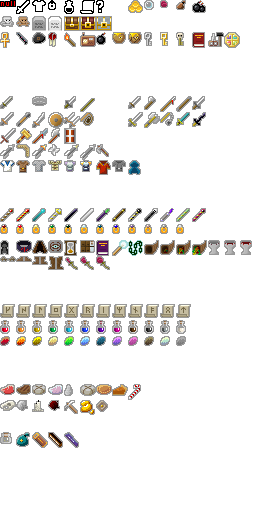
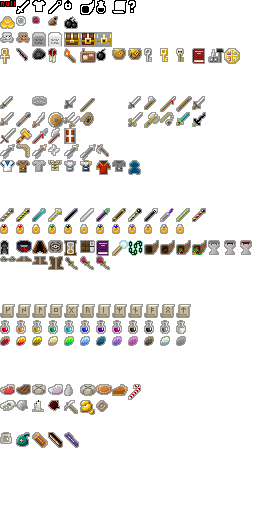
v0.6.1: major adjustments to layout of journal window
New catalogs tabs don't work yet.

diff --git a/core/src/main/java/com/shatteredpixel/shatteredpixeldungeon/windows/WndJournal.java b/core/src/main/java/com/shatteredpixel/shatteredpixeldungeon/windows/WndJournal.java
@@ -53,28 +53,34 @@ import java.util.Collections;
 //FIXME a lot of cleanup and improvements to do here
 public class WndJournal extends WndTabbed {
 	
-	private static final int WIDTH    = 112;
-	private static final int HEIGHT   = 130;
+	private static final int WIDTH_P    = 112;
+	private static final int HEIGHT_P   = 160;
+	
+	private static final int WIDTH_L    = 160;
+	private static final int HEIGHT_L   = 128;
 	
 	private static final int ITEM_HEIGHT	= 18;
 	
 	private Notes notes;
 	private Catalog catalog;
 	
-	private static int last_index = 0;
+	public static int last_index = 0;
 	
 	public WndJournal(){
 		
-		resize(WIDTH, HEIGHT);
+		int width = ShatteredPixelDungeon.landscape() ? WIDTH_L : WIDTH_P;
+		int height = ShatteredPixelDungeon.landscape() ? HEIGHT_L : HEIGHT_P;
+		
+		resize(width, height);
 		
 		notes = new Notes();
 		add(notes);
-		notes.setRect(0, 0, WIDTH, HEIGHT);
+		notes.setRect(0, 0, width, height);
 		notes.updateList();
 		
 		catalog = new Catalog();
 		add(catalog);
-		catalog.setRect(0, 0, WIDTH, HEIGHT);
+		catalog.setRect(0, 0, width, height);
 		catalog.updateList();
 		
 		Tab[] tabs = {
@@ -209,7 +215,7 @@ public class WndJournal extends WndTabbed {
 						text += " x" + Dungeon.hero.belongings.specialKeys[i];
 					}
 					ListItem item = new ListItem( Icons.get(Icons.DEPTH), Messages.titleCase(text), i );
-					item.setRect( 0, pos, WIDTH, ITEM_HEIGHT );
+					item.setRect( 0, pos, width(), ITEM_HEIGHT );
 					content.add( item );
 					
 					pos += item.height();
@@ -222,7 +228,7 @@ public class WndJournal extends WndTabbed {
 					}
 					
 					ListItem item = new ListItem( Icons.get(Icons.DEPTH), text, i );
-					item.setRect( 0, pos, WIDTH, ITEM_HEIGHT );
+					item.setRect( 0, pos, width(), ITEM_HEIGHT );
 					content.add( item );
 					
 					pos += item.height();
@@ -233,22 +239,21 @@ public class WndJournal extends WndTabbed {
 			//Journal entries
 			for (Journal.Record rec : Journal.records) {
 				ListItem item = new ListItem( Icons.get(Icons.DEPTH), rec.feature.desc(), rec.depth );
-				item.setRect( 0, pos, WIDTH, ITEM_HEIGHT );
+				item.setRect( 0, pos, width(), ITEM_HEIGHT );
 				content.add( item );
 				
 				pos += item.height();
 			}
 			
-			content.setSize( WIDTH, pos );
+			content.setSize( width(), pos );
 		}
 		
 	}
 	
 	private static class Catalog extends Component{
 		
-		private RedButton btnPotions;
-		private RedButton btnScrolls;
-		private RedButton btnRings;
+		private RedButton[] itemButtons;
+		private static final int NUM_BUTTONS = 7;
 		
 		private static int latestPressedIdx = 0;
 		
@@ -256,41 +261,23 @@ public class WndJournal extends WndTabbed {
 		
 		private ArrayList<CatalogItem> items = new ArrayList<>();
 		
-		private static boolean showPotions = true;
-		
 		public Catalog(){
 			
 			super();
 			
-			btnPotions = new RedButton( "" ){
-				@Override
-				protected void onClick() {
-					latestPressedIdx = 0;
-					updateList();
-				}
-			};
-			btnPotions.icon(new ItemSprite(ItemSpriteSheet.POTION_HOLDER, null));
-			add( btnPotions );
-			
-			btnScrolls = new RedButton( "" ){
-				@Override
-				protected void onClick() {
-					latestPressedIdx = 1;
-					updateList();
-				}
-			};
-			btnScrolls.icon(new ItemSprite(ItemSpriteSheet.SCROLL_HOLDER, null));
-			add( btnScrolls );
-			
-			btnRings = new RedButton( "" ){
-				@Override
-				protected void onClick() {
-					latestPressedIdx = 2;
-					updateList();
-				}
-			};
-			btnRings.icon(new ItemSprite(ItemSpriteSheet.RING_HOLDER, null));
-			add( btnRings );
+			itemButtons = new RedButton[NUM_BUTTONS];
+			for (int i = 0; i < NUM_BUTTONS; i++){
+				final int idx = i;
+				itemButtons[i] = new RedButton( "" ){
+					@Override
+					protected void onClick() {
+						latestPressedIdx = idx;
+						updateList();
+					}
+				};
+				itemButtons[i].icon(new ItemSprite(ItemSpriteSheet.WEAPON_HOLDER + i, null));
+				add( itemButtons[i] );
+			}
 			
 			list = new ScrollPane( new Component() ) {
 				@Override
@@ -306,40 +293,48 @@ public class WndJournal extends WndTabbed {
 			add( list );
 		}
 		
-		private static final int BUTTON_WIDTH = 36;
-		private static final int BUTTON_HEIGHT = 18;
+		private static final int BUTTON_HEIGHT = 17;
 		
 		@Override
 		protected void layout() {
 			super.layout();
 			
-			btnPotions.setRect(0, 0, BUTTON_WIDTH, BUTTON_HEIGHT);
-			PixelScene.align( btnPotions );
+			int perRow = ShatteredPixelDungeon.landscape() ? NUM_BUTTONS : 4;
+			float buttonWidth = (width() - (perRow-1))/perRow;
 			
-			btnScrolls.setRect((width() - BUTTON_WIDTH)/2f, 0, BUTTON_WIDTH, BUTTON_HEIGHT);
-			PixelScene.align(btnScrolls);
+			for (int i = 0; i < NUM_BUTTONS; i++) {
+				itemButtons[i].setRect((i%perRow) * (buttonWidth + 1), (i/perRow) * (BUTTON_HEIGHT + 1),
+						buttonWidth, BUTTON_HEIGHT);
+				PixelScene.align(itemButtons[i]);
+			}
 			
-			btnRings.setRect(width() - BUTTON_WIDTH, 0, BUTTON_WIDTH, BUTTON_HEIGHT);
-			PixelScene.align(btnRings);
-			
-			list.setRect( 0, btnPotions.height() + 1, width, height - btnPotions.height() - 1 );
+			list.setRect(0, itemButtons[NUM_BUTTONS-1].bottom() + 1, width,
+					height - itemButtons[NUM_BUTTONS-1].bottom() - 1);
 		}
 		
 		private void updateList() {
 			
 			items.clear();
 			
+			for (int i = 0; i < NUM_BUTTONS; i++){
+				if (i == latestPressedIdx){
+					itemButtons[i].icon().color(TITLE_COLOR);
+				} else {
+					itemButtons[i].icon().resetColor();
+				}
+			}
+			
 			Component content = list.content();
 			content.clear();
 			list.scrollTo( 0, 0 );
 			
 			ArrayList<Class<?>> itemClasses;
-			if (latestPressedIdx == 0){
+			if (latestPressedIdx == 5){
 				itemClasses = new ArrayList<>(Arrays.asList(Generator.Category.POTION.classes));
 				for ( Class unknown : Potion.getUnknown()){
 					if (itemClasses.remove(unknown)) itemClasses.add(unknown);
 				}
-			} else if (latestPressedIdx == 1) {
+			} else if (latestPressedIdx == 6) {
 				itemClasses = new ArrayList<>(Arrays.asList(Generator.Category.SCROLL.classes));
 				for ( Class unknown : Scroll.getUnknown()){
 					if (itemClasses.remove(unknown)) itemClasses.add(unknown);

diff --git a/core/src/main/java/com/shatteredpixel/shatteredpixeldungeon/sprites/ItemSpriteSheet.java b/core/src/main/java/com/shatteredpixel/shatteredpixeldungeon/sprites/ItemSpriteSheet.java
@@ -35,26 +35,30 @@ public class ItemSpriteSheet {
 		return x + WIDTH*y;
 	}
 
-	private static final int PLACEHOLDERS   =                               xy(1, 1);   //8 slots
+	private static final int PLACEHOLDERS   =                               xy(1, 1);   //16 slots
 	//null warning occupies space 0, should only show up if there's a bug.
 	public static final int NULLWARN        = PLACEHOLDERS+0;
 	public static final int WEAPON_HOLDER   = PLACEHOLDERS+1;
 	public static final int ARMOR_HOLDER    = PLACEHOLDERS+2;
-	public static final int RING_HOLDER     = PLACEHOLDERS+3;
-	public static final int POTION_HOLDER   = PLACEHOLDERS+4;
-	public static final int SCROLL_HOLDER   = PLACEHOLDERS+5;
-	public static final int SOMETHING       = PLACEHOLDERS+6;
+	public static final int WAND_HOLDER     = PLACEHOLDERS+3;
+	public static final int RING_HOLDER     = PLACEHOLDERS+4;
+	public static final int ARTIFACT_HOLDER = PLACEHOLDERS+5;
+	public static final int POTION_HOLDER   = PLACEHOLDERS+6;
+	public static final int SCROLL_HOLDER   = PLACEHOLDERS+7;
+	public static final int SOMETHING       = PLACEHOLDERS+8;
 	static{
 		assignItemRect(NULLWARN,        16, 7);
 		assignItemRect(WEAPON_HOLDER,   14, 14);
 		assignItemRect(ARMOR_HOLDER,    14, 12);
+		assignItemRect(WAND_HOLDER,     14, 14);
 		assignItemRect(RING_HOLDER,     8,  10);
+		assignItemRect(ARTIFACT_HOLDER, 15, 15);
 		assignItemRect(POTION_HOLDER,   10, 14);
 		assignItemRect(SCROLL_HOLDER,   15, 14);
 		assignItemRect(SOMETHING,       8,  13);
 	}
 
-	private static final int UNCOLLECTIBLE  =                               xy(9, 1);   //8 slots
+	private static final int UNCOLLECTIBLE  =                               xy(1, 2);   //16 slots
 	public static final int GOLD            = UNCOLLECTIBLE+0;
 	public static final int DEWDROP         = UNCOLLECTIBLE+1;
 	public static final int PETAL           = UNCOLLECTIBLE+2;
@@ -68,7 +72,7 @@ public class ItemSpriteSheet {
 		assignItemRect(DBL_BOMB,    14, 13);
 	}
 
-	private static final int CONTAINERS     =                               xy(1, 2);   //16 slots
+	private static final int CONTAINERS     =                               xy(1, 3);   //16 slots
 	public static final int BONES           = CONTAINERS+0;
 	public static final int REMAINS         = CONTAINERS+1;
 	public static final int TOMB            = CONTAINERS+2;
@@ -86,7 +90,7 @@ public class ItemSpriteSheet {
 		assignItemRect(CRYSTAL_CHEST,   16, 15);
 	}
 
-	private static final int SINGLE_USE     =                               xy(1, 3);   //32 slots
+	private static final int SINGLE_USE     =                               xy(1, 4);   //16 slots
 	public static final int ANKH            = SINGLE_USE+0;
 	public static final int STYLUS          = SINGLE_USE+1;
 	public static final int WEIGHT          = SINGLE_USE+2;

diff --git a/core/src/main/java/com/shatteredpixel/shatteredpixeldungeon/ui/Toolbar.java b/core/src/main/java/com/shatteredpixel/shatteredpixeldungeon/ui/Toolbar.java
@@ -31,6 +31,7 @@ import com.shatteredpixel.shatteredpixeldungeon.scenes.GameScene;
 import com.shatteredpixel.shatteredpixeldungeon.sprites.ItemSprite;
 import com.shatteredpixel.shatteredpixeldungeon.tiles.DungeonTilemap;
 import com.shatteredpixel.shatteredpixeldungeon.windows.WndBag;
+import com.shatteredpixel.shatteredpixeldungeon.windows.WndJournal;
 import com.watabou.noosa.Game;
 import com.watabou.noosa.Gizmo;
 import com.watabou.noosa.Image;
@@ -119,6 +120,13 @@ public class Toolbar extends Component {
 			@Override
 			protected void onClick() {
 				GameScene.show(new WndBag(Dungeon.hero.belongings.backpack, null, WndBag.Mode.ALL, null));
+			}
+			
+			@Override
+			protected boolean onLongClick() {
+				WndJournal.last_index = 2; //catalog page
+				GameScene.show(new WndJournal());
+				return true;
 			}
 
 			@Override

diff --git a/core/src/main/java/com/shatteredpixel/shatteredpixeldungeon/ui/RedButton.java b/core/src/main/java/com/shatteredpixel/shatteredpixeldungeon/ui/RedButton.java
@@ -123,6 +123,10 @@ public class RedButton extends Button {
 		}
 	}
 	
+	public Image icon(){
+		return icon;
+	}
+	
 	public float reqWidth() {
 		float reqWidth = 0;
 		if (icon != null){
